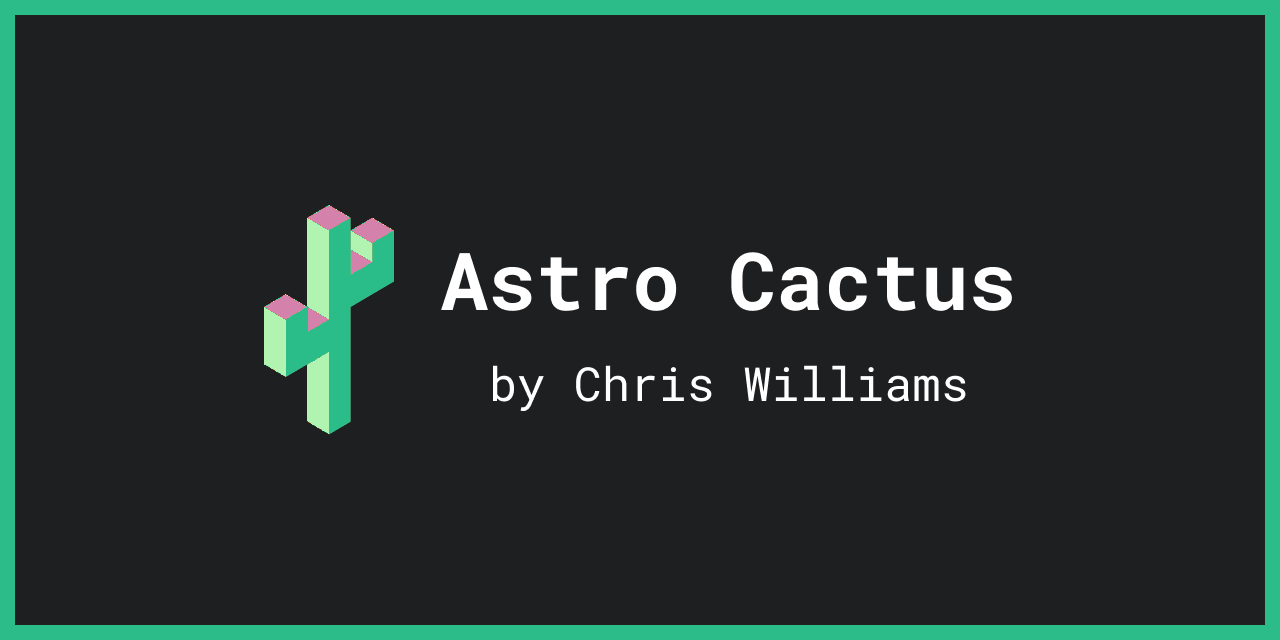
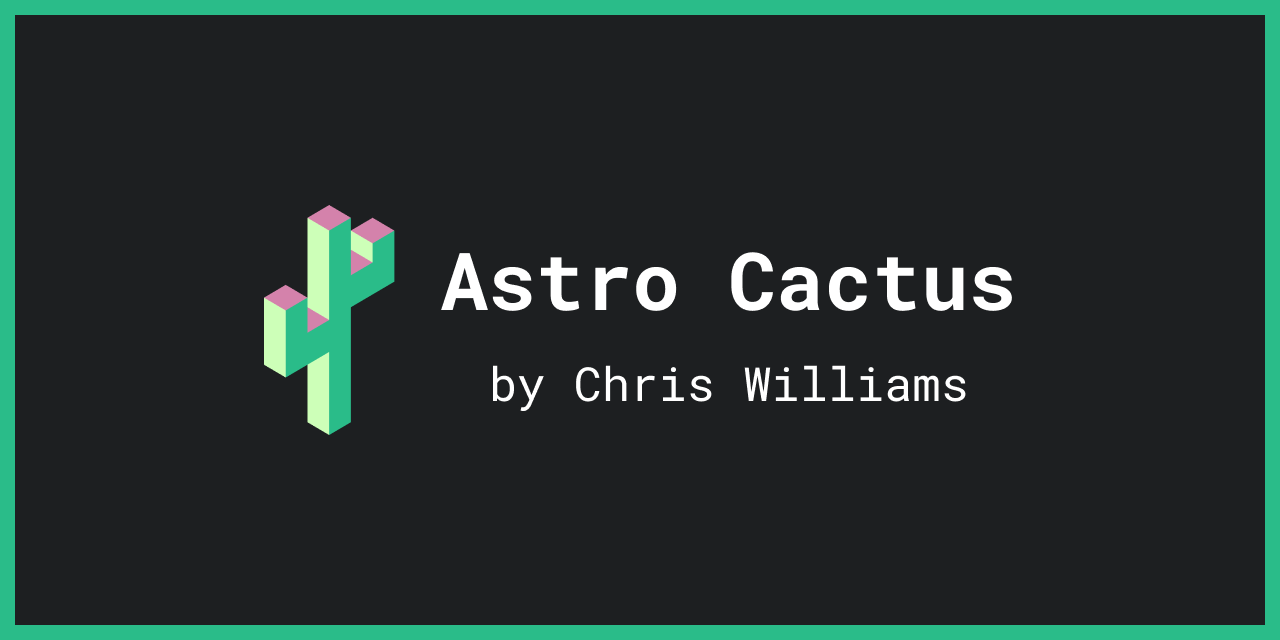
fix cactus corners & colour

Changed region(s): [[0.1875, 0.3438, 0.3125, 0.6875]]

diff --git a/src/pages/og-image/[...slug].png.ts b/src/pages/og-image/[...slug].png.ts
@@ -37,19 +37,7 @@ const markup = (title: string, pubDate: string) =>
 		<div tw="flex items-center justify-between w-full p-10 border-t border-[#2bbc89] text-xl">
 			<div tw="flex items-center">
 				<svg height="60" fill="none" xmlns="http://www.w3.org/2000/svg" viewBox="0 0 272 480">
-					<path
-						d="M181.334 93.333v-40L226.667 80v40l-45.333-26.667ZM136.001 53.333 90.667 26.667v426.666L136.001 480V53.333Z"
-						fill="#cdffb8"
-					></path>
-					<path
-						d="m136.001 119.944 45.333-26.667 45.333 26.667-45.333 26.667-45.333-26.667ZM90.667 26.667 136.001 0l45.333 26.667-45.333 26.666-45.334-26.666ZM181.334 53.277l45.333-26.666L272 53.277l-45.333 26.667-45.333-26.667ZM0 213.277l45.333-26.667 45.334 26.667-45.334 26.667L0 213.277ZM136 239.944l-45.333-26.667v53.333L136 239.944Z"
-						fill="#d482ab"
-					></path>
-					<path
-						d="m136 53.333 45.333-26.666v120L226.667 120V80L272 53.333V160l-90.667 53.333v240L136 480V306.667L45.334 360V240l45.333-26.667v53.334L136 240V53.333Z"
-						fill="#2abc89"
-					></path>
-					<path d="M45.334 240 0 213.334v120L45.334 360V240Z" fill="#cdffb8"></path>
+  				<path fill="#cdffb8" d="M181.334 93.333v-40L226.667 80v40zM136.001 53.333 90.667 26.667v426.666L136.001 480zM45.333 220 0 193.334v140L45.333 360z"/><path fill="#d482ab" d="M90.667 26.667 136.001 0l45.333 26.667-45.333 26.666zM181.334 53.33l45.333-26.72L272 53.33 226.667 80zM136 240l-45.333-26.67v53.34zM0 193.33l45.333-26.72 45.334 26.72L45.333 220zM181.334 93.277 226.667 120l-45.333 26.67z"/><path fill="#2abc89" d="m136 53.333 45.333-26.666v120L226.667 120V80L272 53.333V160l-90.667 53.333v240L136 480V306.667L45.334 360V220l45.333-26.667v73.334L136 240z"/>
 				</svg>
 				<p tw="ml-3 font-semibold">${siteConfig.title}</p>
 			</div>

diff --git a/README.md b/README.md
@@ -1,5 +1,5 @@
 <div align="center">
-  <img alt="Astro Cactus logo" src="https://github.com/user-attachments/assets/397c194f-0c12-430a-8a4d-fd369e194725" width="70" />
+  <img alt="Astro Cactus logo" src="https://github.com/user-attachments/assets/92dfbabf-ca65-4bf6-991d-9a71e5319880" width="70" />
 </div>
 <h1 align="center">
   Astro Cactus
